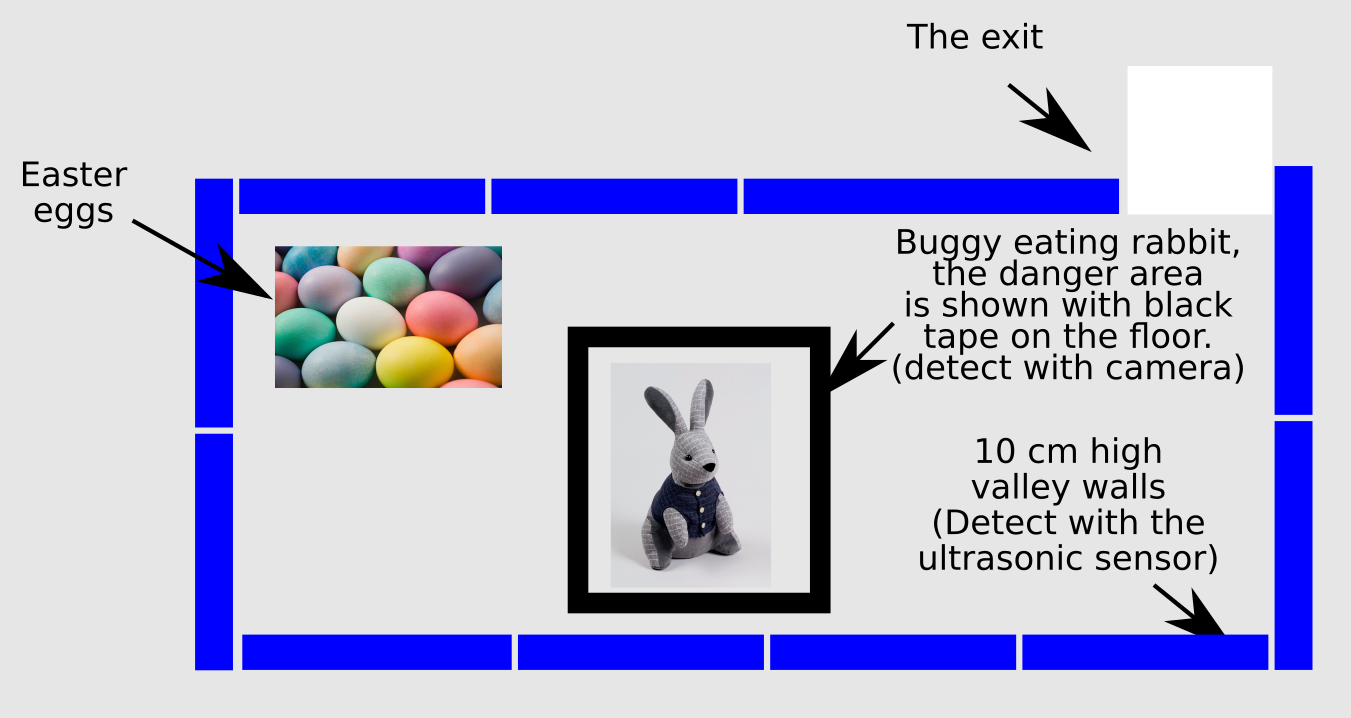
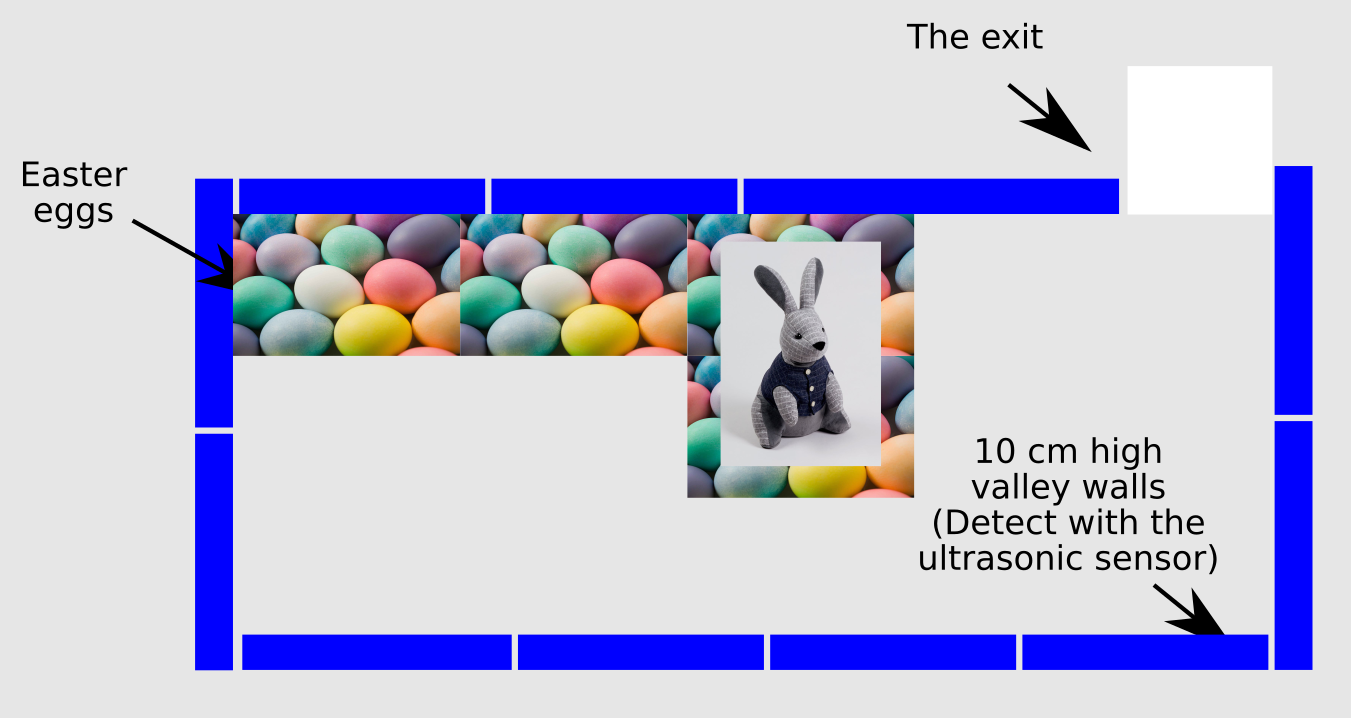
update

Changed region(s): [[0.1554, 0.2758, 0.9326, 0.8579]]

diff --git a/WS6/worksheet_6.md b/WS6/worksheet_6.md
@@ -1,13 +1,14 @@
 Worksheet 6
 ===========
 
-The buggy challenge
--------------------
-Your buggy is trapped in a valley, infested by a rather large rabbit who likes to eat buggies.  Your buggy must find the exit to the valley without bumping into the valley walls, or encountering the rabbit.  The rabbit lives in an area marked off by *black masking tape*, if the buggy enters the area where the bunny lives it will get eaten, and the game will be over.
+The Easter Rabbit Buggy challenge
+---------------------------------
 
-There are also some rocks (Easter eggs) scattered around the valley which your buggy must avoid as they can get trapped in the wheels.  The exit is denoted by a white chalk road (in this case an A3 sheet of white paper.)
+Your buggy is trapped in a valley, where a rather large rabbit called Rudolf lives who likes to eat buggies. Because it's not quite yet Easter and Rudolf has not had any chocolate eggs this yet this year, your buggy is in danger of being nibbled if it bumps into Rudolf.  Your buggy must find the exit to the valley without bumping into the valley walls, or encountering the rabbit.  If your buggy bumps into the walls of the valley it must take a time out of 30 seconds (the demonstrator will pick the buggy up and remove it from the course) then restart the course from the beginning.
 
-As a group, edit your buggy code so that your buggy will search for and find the white road as quickly as possible without bumping into the rabbit or running over the smarties.  50% will be given if you attempt the exercise with a reasonable answer.  Another 25% will be given for for finding the white piece of paper and the remaining 25% will be given depending on how well your buggy performs, and any cool your answer is(!)  Rules of the game:
+The rabbit lives in an area surrounded by Easter eggs, if the buggy detects Easter eggs on the floor it should reverse and then turn around and continue trying to find the exit to the valley.  If your buggy bumps into Rudolf, he has to sit out the buggy challenge for 10 min to be repaired.
+
+As a group, edit your buggy code so that your buggy will search for the exit as quickly as possible without bumping into the rabbit or running over the smarties.  50% will be given if you attempt the exercise with a reasonable answer.  Another 25% will be given for for finding the white piece of paper and the remaining 25% will be given depending on how well your buggy performs, and any cool your answer is(!)  Rules of the game:
 
 - The buggy must find the white piece of paper to win the game.
 - If it bumps into the bunny, the game is over.
@@ -253,6 +254,4 @@ waits for 1 second.
 Question 6: Your script buggy.m is now ready to be copied over to the buggy and tested. Before you do that, in buggy.m where you pass the variable count to get_real_world_rgb, replace it with -1.  This will make get_real_world_rgb call the camera() command. Also replace the disp command you used to print 1111 and 0000 to the screen with the command to turn on and off the LEDs.  Finally, replace ‘moving buggy forwards’ and ‘turn and reverse!!!!! Object detected!!!’ with commands to move the motors of the buggy.  Get a demonstrator to check your script before you copy it to the buggy, and test it. [Hint, if you want to test the buggy on the carpet you will need to determine the rgb values of the carpet for the buggy to work]
 Question 7: Edit your script so that, when it starts it automatic takes a picture of what it first sees then compares all subsequent images to these values to determine if an object has been encountered.
 
-Old
----
-out the values from the echo sensor.  Now using an if statement, run the motors for 1 second if the distance detected is more than 45cm, if a distance of less than 45 cm, is detected make the code wait for 5 second using the sleep command.
+
